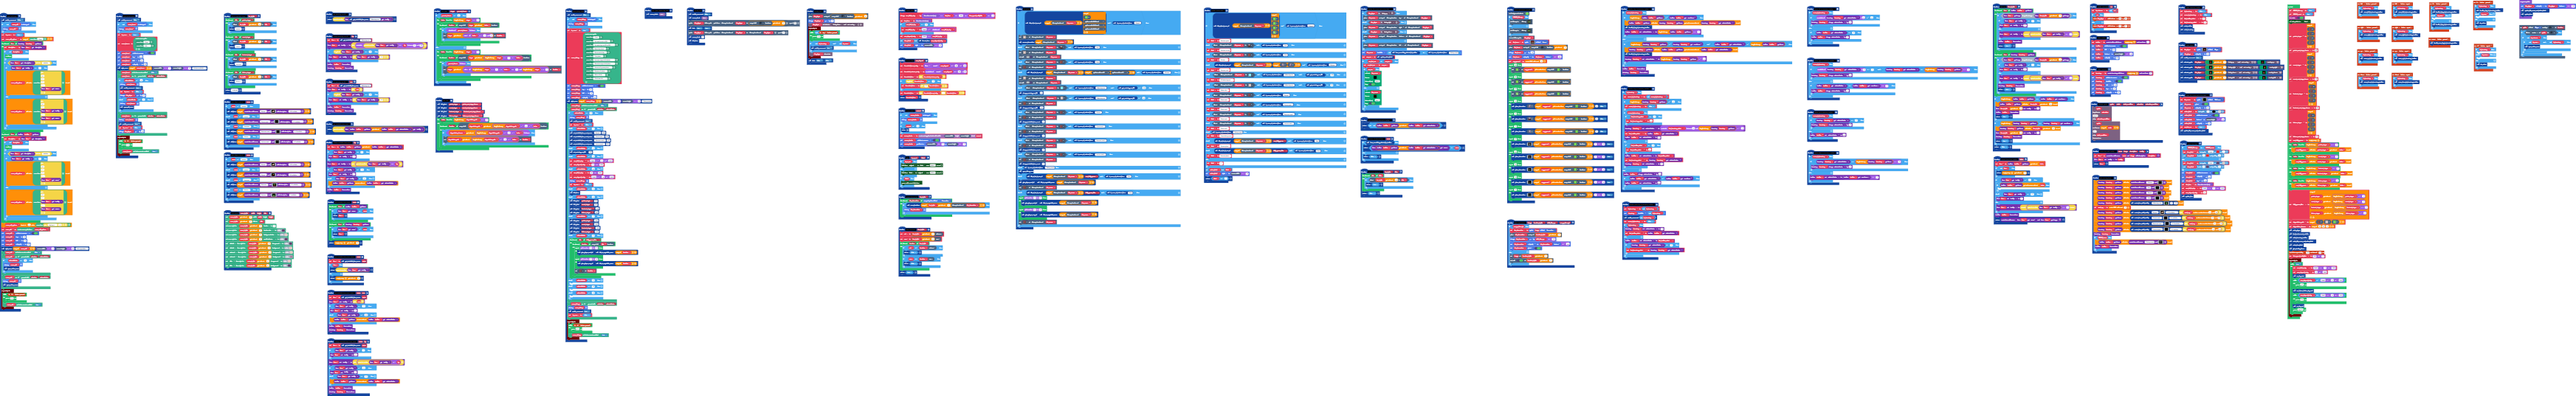
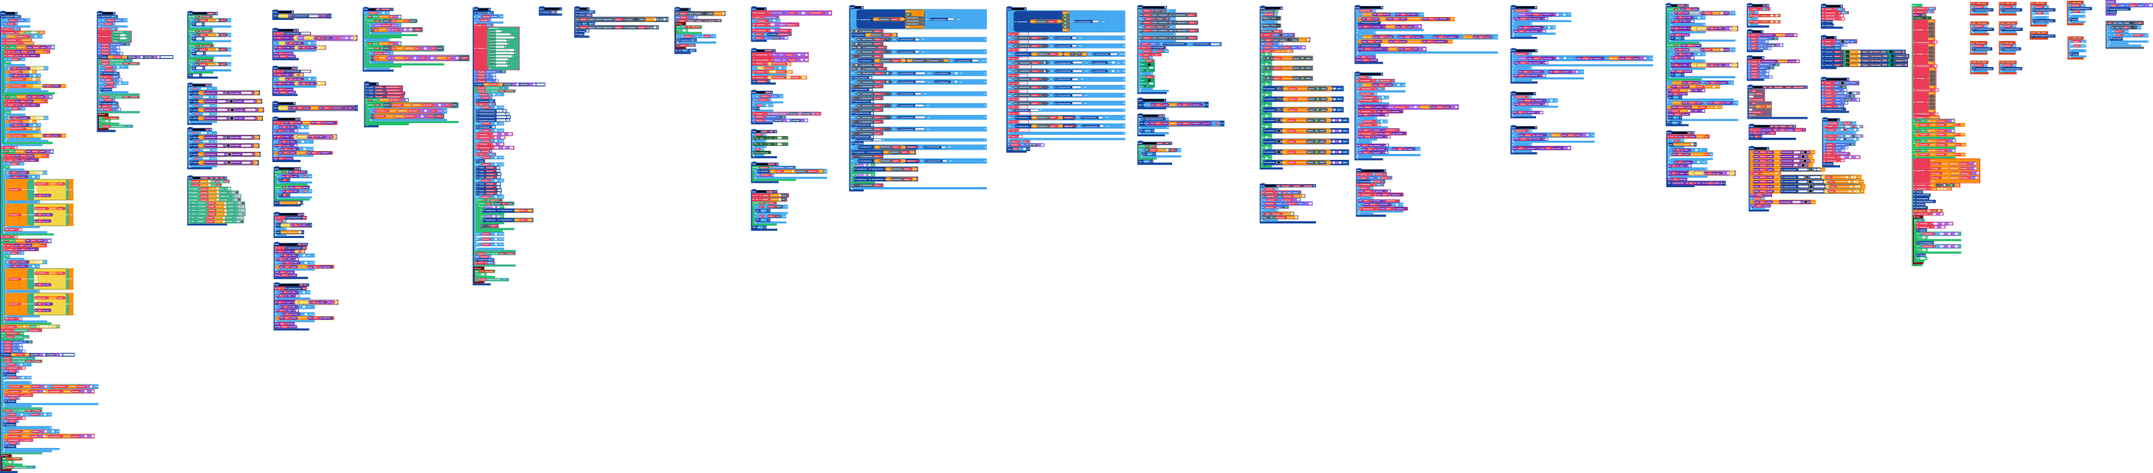
Can increment/decrement how much to sell in menu

Changed region(s): [[0.0, 0.0, 1.0, 1.0]]

diff --git a/main.ts b/main.ts
@@ -318,34 +318,77 @@ function open_sell_menu () {
     }
     in_menu = true
     menu_sell_options = [miniMenu.createMenuItem("Close")]
-    for (let item of inventory.get_items()) {
-        description = item.get_text(ItemTextAttribute.Description)
-        if (!(description)) {
-            continue;
+    if (menu_sell_selections.length == 0) {
+        menu_sell_selections = []
+        menu_sell_selections_max = []
+        for (let index = 0; index <= inventory.get_items().length - 1; index++) {
+            item = inventory.get_items()[index]
+            description = item.get_text(ItemTextAttribute.Description)
+            if (!(description)) {
+                continue;
+            }
+            if (item.get_text(ItemTextAttribute.Description).includes("sellable")) {
+                menu_sell_selections.push(0)
+                if (item.get_text(ItemTextAttribute.Tooltip) == "") {
+                    menu_sell_selections_max.push(1)
+                } else {
+                    menu_sell_selections_max.push(parseFloat(item.get_text(ItemTextAttribute.Tooltip)))
+                }
+            }
         }
-        if (item.get_text(ItemTextAttribute.Description).includes("sellable")) {
-            if (item.get_text(ItemTextAttribute.Tooltip) == "") {
-                menu_sell_options.push(miniMenu.createMenuItem("0" + "/" + "1" + ": " + item.get_text(ItemTextAttribute.Name)))
-            } else {
-                menu_sell_options.push(miniMenu.createMenuItem("0" + "/" + item.get_text(ItemTextAttribute.Tooltip) + ": " + item.get_text(ItemTextAttribute.Name)))
+        for (let index = 0; index <= toolbar.get_items().length - 1; index++) {
+            item = toolbar.get_items()[index]
+            description = item.get_text(ItemTextAttribute.Description)
+            if (!(description)) {
+                continue;
+            }
+            if (item.get_text(ItemTextAttribute.Description).includes("sellable")) {
+                menu_sell_selections.push(0)
+                if (item.get_text(ItemTextAttribute.Tooltip) == "") {
+                    menu_sell_selections_max.push(1)
+                } else {
+                    menu_sell_selections_max.push(parseFloat(item.get_text(ItemTextAttribute.Tooltip)))
+                }
             }
         }
     }
-    for (let item of toolbar.get_items()) {
+    real_index = 0
+    for (let index = 0; index <= inventory.get_items().length - 1; index++) {
+        item = inventory.get_items()[index]
         description = item.get_text(ItemTextAttribute.Description)
         if (!(description)) {
             continue;
         }
         if (item.get_text(ItemTextAttribute.Description).includes("sellable")) {
             if (item.get_text(ItemTextAttribute.Tooltip) == "") {
-                menu_sell_options.push(miniMenu.createMenuItem("0" + "/" + "1" + ": " + item.get_text(ItemTextAttribute.Name)))
+                menu_sell_options.push(miniMenu.createMenuItem("" + menu_sell_selections[real_index] + "/" + "1" + ": " + item.get_text(ItemTextAttribute.Name)))
             } else {
-                menu_sell_options.push(miniMenu.createMenuItem("0" + "/" + item.get_text(ItemTextAttribute.Tooltip) + ": " + item.get_text(ItemTextAttribute.Name)))
+                menu_sell_options.push(miniMenu.createMenuItem("" + menu_sell_selections[real_index] + "/" + item.get_text(ItemTextAttribute.Tooltip) + ": " + item.get_text(ItemTextAttribute.Name)))
             }
+            real_index += 1
+        }
+    }
+    real_index = 0
+    for (let index = 0; index <= toolbar.get_items().length - 1; index++) {
+        item = toolbar.get_items()[index]
+        description = item.get_text(ItemTextAttribute.Description)
+        if (!(description)) {
+            continue;
+        }
+        if (item.get_text(ItemTextAttribute.Description).includes("sellable")) {
+            if (item.get_text(ItemTextAttribute.Tooltip) == "") {
+                menu_sell_options.push(miniMenu.createMenuItem("" + menu_sell_selections[real_index] + "/" + "1" + ": " + item.get_text(ItemTextAttribute.Name)))
+            } else {
+                menu_sell_options.push(miniMenu.createMenuItem("" + menu_sell_selections[real_index] + "/" + item.get_text(ItemTextAttribute.Tooltip) + ": " + item.get_text(ItemTextAttribute.Name)))
+            }
+            real_index += 1
         }
     }
     menu_sell_options.insertAt(1, miniMenu.createMenuItem("Sell for $" + "0"))
     menu_sell = miniMenu.createMenuFromArray(menu_sell_options)
+    for (let index = 0; index < menu_sell_last_index; index++) {
+        menu_sell.moveSelection(miniMenu.MoveDirection.Down)
+    }
     menu_sell.setFlag(SpriteFlag.RelativeToCamera, true)
     menu_sell.top = 4
     menu_sell.left = 4
@@ -354,13 +397,33 @@ function open_sell_menu () {
     menu_sell.setButtonEventsEnabled(false)
     menu_sell.onButtonPressed(controller.A, function (selection, selectedIndex) {
         if (selectedIndex == 0) {
+            menu_sell_last_index = 0
             menu_sell.destroy()
             open_action_menu()
+        } else if (selectedIndex == 1) {
+        	
+        } else {
+            if (menu_sell_selections[selectedIndex - 2] < menu_sell_selections_max[selectedIndex - 2]) {
+                menu_sell_selections[selectedIndex - 2] = menu_sell_selections[selectedIndex - 2] + 1
+                menu_sell_last_index = selectedIndex
+                menu_sell.destroy()
+                open_sell_menu()
+            }
         }
     })
     menu_sell.onButtonPressed(controller.B, function (selection, selectedIndex) {
-        menu_sell.destroy()
-        open_action_menu()
+        if (selectedIndex == 0 || selectedIndex == 1) {
+            menu_sell_last_index = 0
+            menu_sell.destroy()
+            open_action_menu()
+        } else {
+            if (menu_sell_selections[selectedIndex - 2] > 0) {
+                menu_sell_selections[selectedIndex - 2] = menu_sell_selections[selectedIndex - 2] - 1
+                menu_sell_last_index = selectedIndex
+                menu_sell.destroy()
+                open_sell_menu()
+            }
+        }
     })
     timer.background(function () {
         while (controller.A.isPressed()) {
@@ -1000,7 +1063,11 @@ let the_decoration: Sprite = null
 let seed_rng: FastRandomBlocks = null
 let rng_ground: FastRandomBlocks = null
 let the_house: Sprite = null
+let menu_sell_last_index = 0
+let real_index = 0
 let description = ""
+let menu_sell_selections_max: number[] = []
+let menu_sell_selections: number[] = []
 let menu_sell_options: miniMenu.MenuItem[] = []
 let menu_sell: miniMenu.MenuSprite = null
 let menu_house: miniMenu.MenuSprite = null
